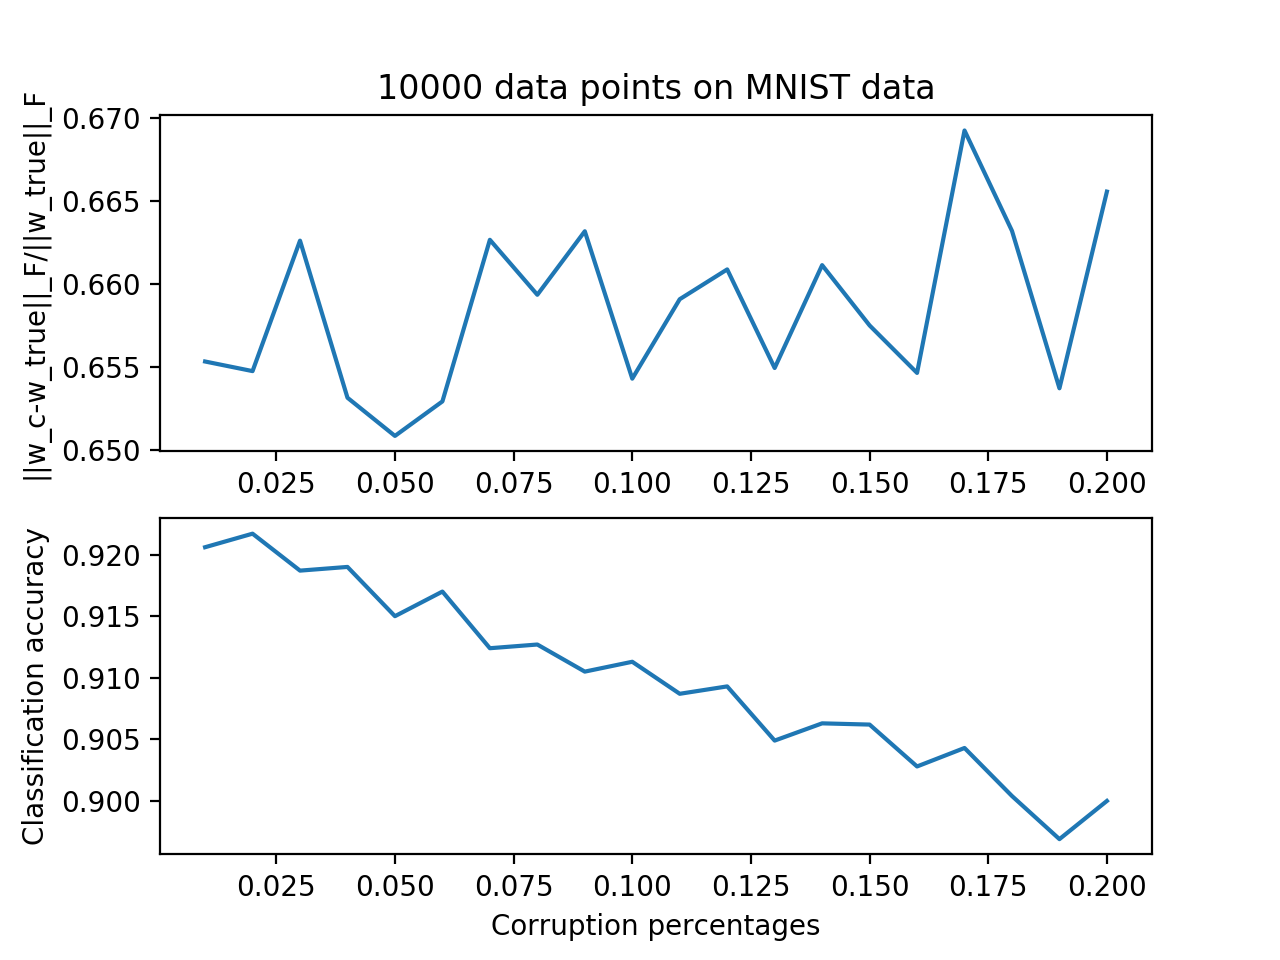
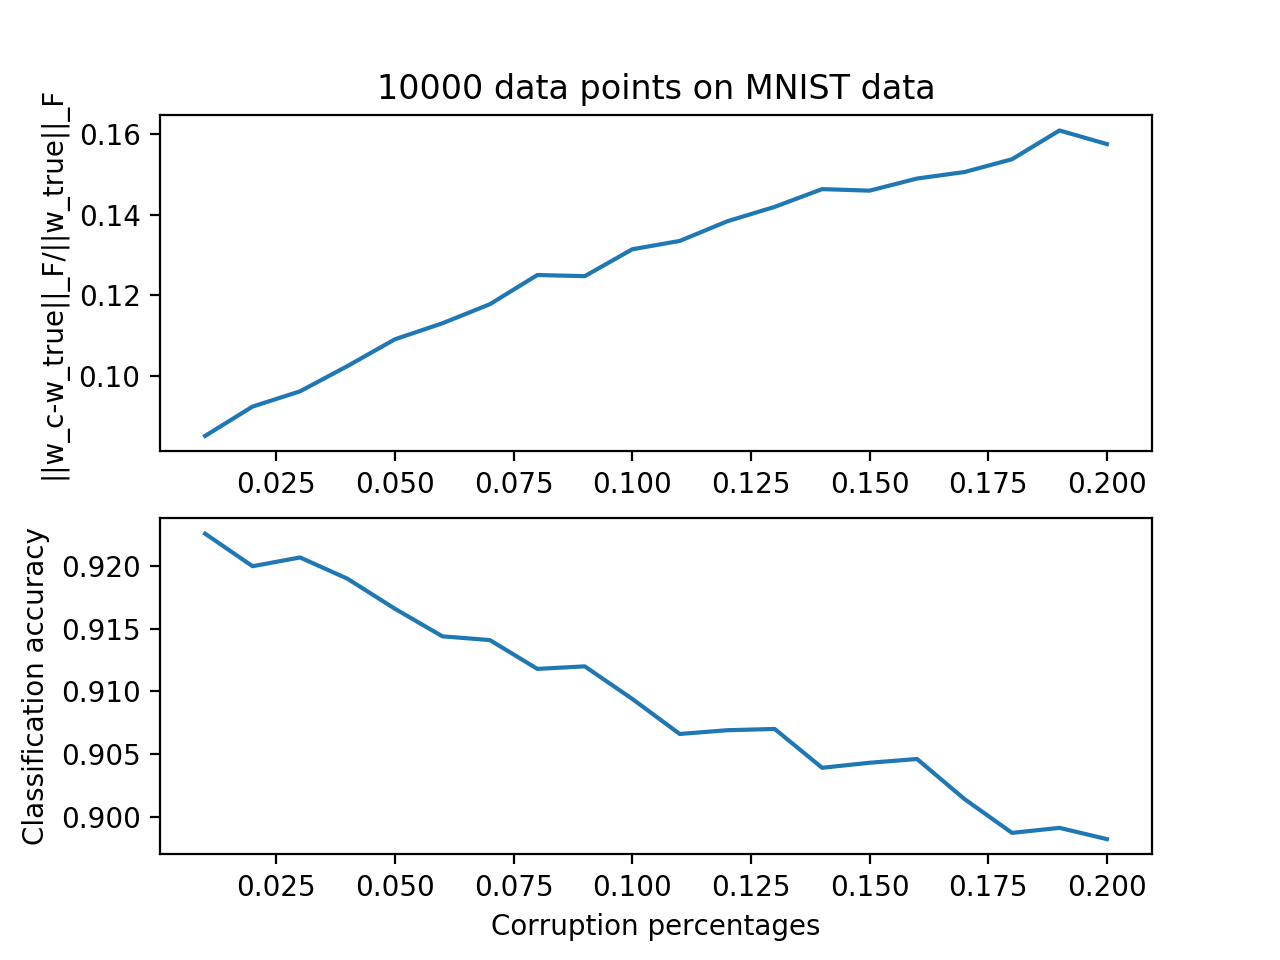
Update testing files to have same starting parameters

diff --git a/Framework1/NumericalExperiments/FashionTest.py b/Framework1/NumericalExperiments/FashionTest.py
@@ -27,8 +27,12 @@ for i in range(50000):
 for i in range(10000):
     test_data[i, :] = x_data[50000 + i][0].flatten()
 
+
+w0 = np.random.rand(train_data.shape[1], 10)
+b0 = np.random.rand(10)
+
 # Run multiclass logistic regression to get "w_true"
-all_data_train = MulticlassLogReg(train_data, train_label, np.random.rand(train_data.shape[1], 10), np.random.rand(10), T=1000, tol=0.5, alpha=0.25, lam1=1e-3, lam2=0.1, num_classes=10)
+all_data_train = MulticlassLogReg(train_data, train_label, w0, b0, T=1000, tol=0.5, alpha=0.25, lam1=1e-3, lam2=0.1, num_classes=10)
 all_data_train.optimization()
 
 pred, prob = all_data_train.predict(test_data, all_data_train.w, all_data_train.b)
@@ -38,23 +42,23 @@ print('Accuracy: ', sum(pred == test_label)/len(pred))
 # Save "true" values for comparison
 w_true = all_data_train.w
 b_true = all_data_train.b
-#b_true_mean = b_true - np.mean(b_true)
+b_true_mean = b_true - np.mean(b_true)
 
-w_true = np.concatenate((w_true, np.array([b_true])), axis=0)
+w_true = np.concatenate((w_true, np.array([b_true_mean])), axis=0)
 
 w_seq = []
 corruptions_seq = []
 accuracy = []
 num_test = 10000
 
-for i in range(90, 91):
+for i in range(1, 16):
 
     y_corrupt_ind = np.random.randint(len(test_label[0:num_test]), size=math.floor((i * 0.01) * len(test_label[0:num_test])))
     corruptions = np.random.randint(10, size=len(y_corrupt_ind))
     y_corrupt = test_label[0:num_test].copy()
     y_corrupt[y_corrupt_ind] = corruptions
 
-    corruption_log_reg = MulticlassLogReg(test_data[0:num_test], y_corrupt, np.random.rand(test_data.shape[1], 10), np.random.rand(10), T=1000, tol=0.5, alpha=0.25, lam1=1e-3, lam2=0.1, num_classes=10)
+    corruption_log_reg = MulticlassLogReg(test_data[0:num_test], y_corrupt, w0, b0, T=1000, tol=0.5, alpha=0.25, lam1=1e-3, lam2=0.1, num_classes=10)
     corruption_log_reg.optimization()
 
     w = np.concatenate((corruption_log_reg.w, np.array([corruption_log_reg.b - np.mean(corruption_log_reg.b)])), axis=0)

diff --git a/Framework1/NumericalExperiments/TestingFile.py b/Framework1/NumericalExperiments/TestingFile.py
@@ -24,8 +24,11 @@ test_data = x[50000:60000, :]
 train_label = y[0:50000]
 test_label = y[50000:60000]
 
+w0 = np.random.rand(x.shape[1], 10)
+b0 = np.random.rand(10)
+
 # Run multiclass logistic regression to get "w_true"
-all_data_train = MulticlassLogReg(train_data, train_label, np.random.rand(train_data.shape[1], 10), np.random.rand(10), T=1000, tol=0.5, alpha=0.25, lam1=1e-3, lam2=0.1, num_classes=10)
+all_data_train = MulticlassLogReg(train_data, train_label, w0, b0, T=1000, tol=0.5, alpha=0.25, lam1=1e-3, lam2=0.1, num_classes=10)
 all_data_train.optimization()
 
 pred, prob = all_data_train.predict(test_data, all_data_train.w, all_data_train.b)
@@ -42,16 +45,16 @@ w_true = np.concatenate((w_true, np.array([b_true_mean])), axis=0)
 w_seq = []
 corruptions_seq = []
 accuracy = []
-num_test = 1000
+num_test = 10000
 
-for i in range(1, 31):
+for i in range(1, 21):
 
     y_corrupt_ind = np.random.randint(len(test_label[0:num_test]), size=math.floor((i * 0.01) * len(test_label[0:num_test])))
     corruptions = np.random.randint(10, size=len(y_corrupt_ind))
     y_corrupt = test_label[0:num_test].copy()
     y_corrupt[y_corrupt_ind] = corruptions
 
-    corruption_log_reg = MulticlassLogReg(test_data[0:num_test], y_corrupt, np.random.rand(test_data.shape[1], 10), np.random.rand(10), T=1000, tol=0.5, alpha=0.25, lam1=1, lam2=1, num_classes=10)
+    corruption_log_reg = MulticlassLogReg(test_data[0:num_test], y_corrupt, w0, b0, T=1000, tol=0.5, alpha=0.25, lam1=1e-3, lam2=0.1, num_classes=10)
     corruption_log_reg.optimization()
 
     w = np.concatenate((corruption_log_reg.w, np.array([corruption_log_reg.b - np.mean(corruption_log_reg.b)])), axis=0)
